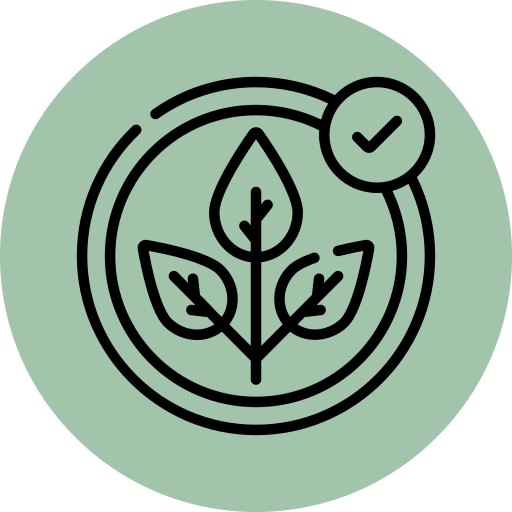
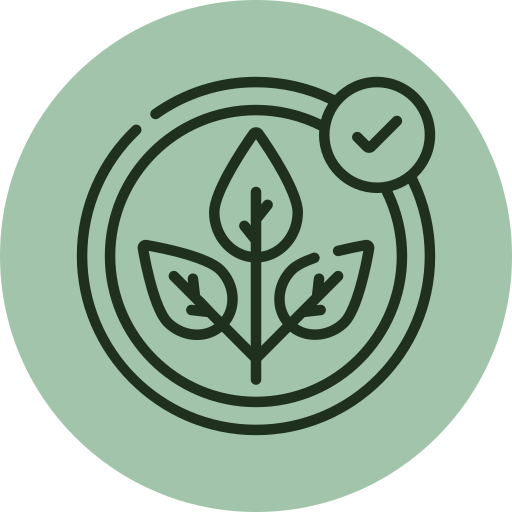
feat: design snippets

Changed region(s): [[0.125, 0.125, 0.875, 0.875], [0.6875, 0.2188, 0.7812, 0.3125]]

diff --git a/src/app/modules/home/request-hub/request-hub-form.component.tsx b/src/app/modules/home/request-hub/request-hub-form.component.tsx
@@ -4,14 +4,14 @@ import { useForm } from "react-hook-form";
 import { useRequest } from "@app/core/graphql/request.hook";
 import { CreateRequestMutation } from "@app/data/graphql/mutations/create-request.mutation";
 import { Label } from "@atomic/atm.typography";
-import { Separator } from '@atomic/atm.separator'
+import { Separator } from "@atomic/atm.separator";
 
 export const RequestHubForm = () => {
   const { register, errors, handleSubmit } = useForm();
 
   const { loading, request } = useRequest(CreateRequestMutation, {
     onSuccess: () => location.reload(),
-    onError: () => alert('Não foi possível enviar a solicitação. Por favor, tente novamente.'),
+    onError: () => alert("Não foi possível enviar a solicitação. Por favor, tente novamente."),
   });
 
   const handleRequest = (data) => {
@@ -33,13 +33,23 @@ export const RequestHubForm = () => {
       <FormField label={"Nome"} name={"name"} error={errors.name} register={register({ required: true })} />
       <FormField label={"Telefone"} name={"phone"} error={errors.phone} register={register({ required: true })} />
       <FormField label={"Email"} name={"email"} error={errors.email} register={register({ required: true })} />
-      <FormField label={"Endereço do condomínio"} name={"address"} error={errors.address} register={register({ required: true })} />
+      <FormField
+        label={"Endereço do condomínio"}
+        name={"address"}
+        error={errors.address}
+        register={register({ required: true })}
+      />
       <Label>O que você é?</Label>
-      <Separator type={'line'} />
-      <FormSelect label={'Morador'} name={'person'} value={'morador'} register={register({ required: true })} />
-      <FormSelect label={'Síndico'} name={'person'} value={'sindico'} register={register({ required: true })} />
-      <FormSelect label={'Síndico profissional'} name={'person'} value={'sindico_profissional'} register={register({ required: true })} />
-      <Separator type={'line'} />
+      <Separator type={"line"} />
+      <FormSelect label={"Morador"} name={"person"} value={"morador"} register={register({ required: true })} />
+      <FormSelect label={"Síndico"} name={"person"} value={"sindico"} register={register({ required: true })} />
+      <FormSelect
+        label={"Síndico profissional"}
+        name={"person"}
+        value={"sindico_profissional"}
+        register={register({ required: true })}
+      />
+      <Separator type={"line"} />
       <Button expanded={true}>Pedir Hub</Button>
     </Form>
   );

diff --git a/src/atomic/obj.constants/constants.ts b/src/atomic/obj.constants/constants.ts
@@ -1,15 +1,16 @@
 export enum BrandColor {
   Green = '#578959',
   LightGreen = '#A1C4AA',
-  Purple = '#DC143C'
+  DarkGreen = '#1F301E',
+  Red = '#DC143C'
 }
 
 export class Color {
   public static readonly Primary = BrandColor.Green
   public static readonly Secondary = BrandColor.LightGreen
-  public static readonly CallToAction = BrandColor.Purple
+  public static readonly CallToAction = BrandColor.Red
 
-  public static readonly Black = '#0C2634'
+  public static readonly Black = '#052117'
   public static readonly White = '#FFFFFF'
   public static readonly Transparent = 'transparent'
   public static readonly Accessory = '#ED991A'

diff --git a/src/atomic/mol.card/card-frame.component.style.ts b/src/atomic/mol.card/card-frame.component.style.ts
@@ -17,9 +17,9 @@ export const CardFrameWrapperStyled = styled.div`
 `
 
 export const CardFrameStyled = styled.div`
+  border: solid ${Color.Secondary} 1px;
   background-color: ${Color.White};
-  box-shadow: ${Shadow};
-  transition: box-shadow 0.3s;
+  box-shadow: ${Color.Secondary} 4px 4px 0px 1px;
   border-radius: ${(props: CardFrameStyledProps) => (props.noBorder ? '0' : Radius.Small)};
 
   ${(props: CardFrameStyledProps) =>

diff --git a/src/pages/index.tsx b/src/pages/index.tsx
@@ -4,6 +4,7 @@ import { Hero } from 'app/modules/home/hero/hero.component'
 import { BenefitsSection } from '@app/modules/home/benefits/benefits.section'
 import { RequestHubSection } from '@app/modules/home/request-hub/request-hub.section'
 import { HarvestSection } from '@app/modules/home/harvest/harvest.section'
+import { PageHeading } from '@atomic/org.page-heading'
 
 const Home: NextPage = () => {
   return (

diff --git a/src/atomic/org.page-heading/page-heading.component.tsx b/src/atomic/org.page-heading/page-heading.component.tsx
@@ -25,7 +25,7 @@ export const PageHeading: React.FC<SectionTitleProps> = (props) => {
               <H1>{props.title}</H1>
             </Hbox.Item>
           </Hbox>
-          <Separator type={'section'} />
+          <Separator type={'subsection'} />
         </Col>
       </Row>
     </Grid>
